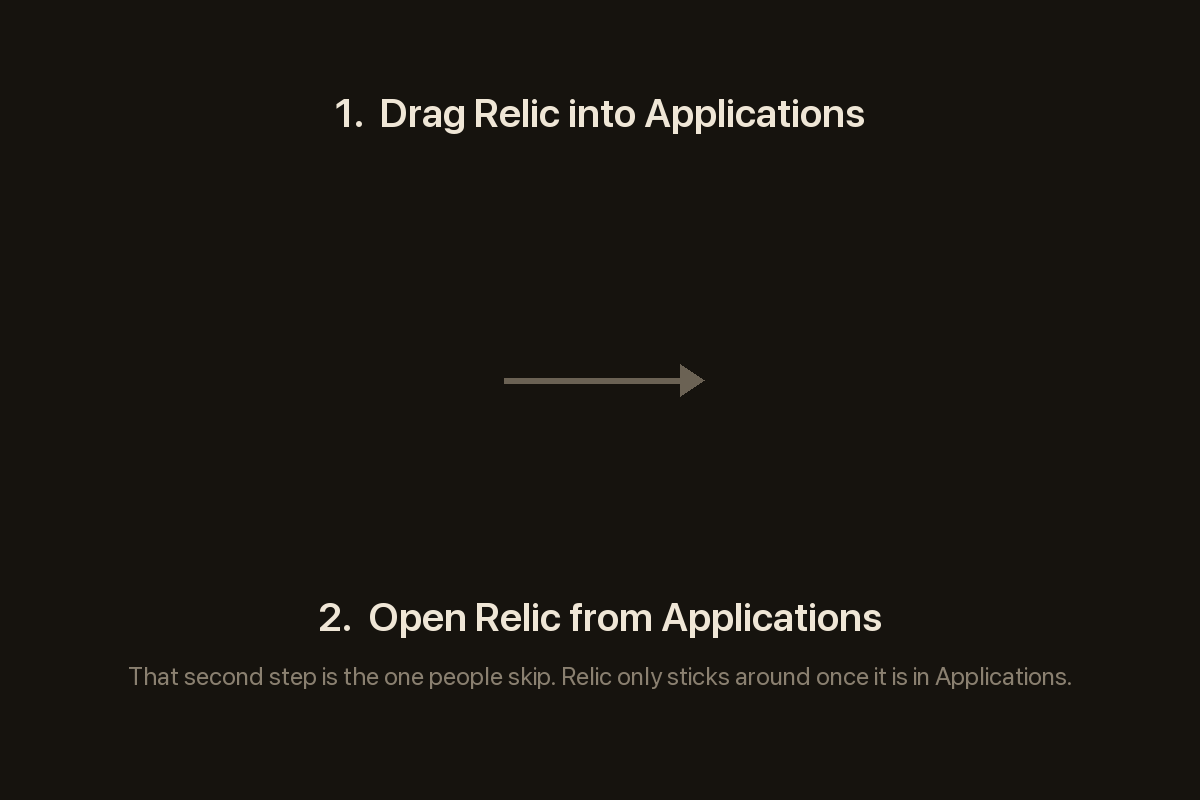
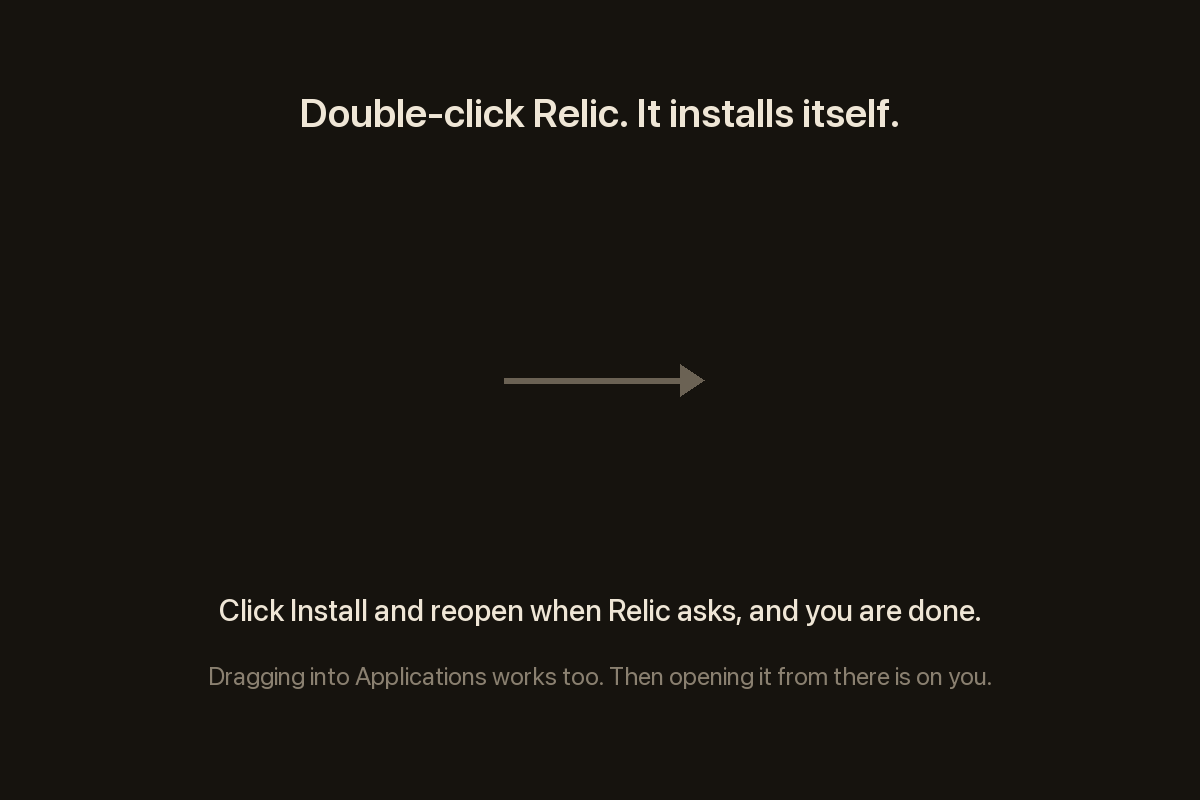
mac: unpin over System Settings, outline the onboarding window, DMG leads with double-click
Three first-run fixes from live QA:

- The always-on-top window sat immovably over the Accessibility switch it
  had just sent the user to flip. The AX step now unpins the window for the
  trip to System Settings (new onPinWindow host callback) and re-pins on
  every way back: grant lands, manual continue, or skip. _show re-asserts
  the pin on every summon, so a missed restore can never stick.

- The onboarding surface filled its frameless window with a flat borderless
  container, and during OAuth it floats over a browser tab styled in the
  same palette. The passphrase screen was indistinguishable from the page
  behind it and read as a website asking for the phrase. It now draws the
  same window-edge border + rounded corners as the popup.

- The DMG artwork told users to drag, which is a bare Finder copy that
  launches nothing, and QA showed users waiting on an app that never opens
  itself. The artwork now leads with double-click (which runs the app and
  ends in "Install and reopen"), with drag as the footnote. The generator
  script is checked in this time (app/scripts/gen_dmg_background.py).

Claude-Session: https://claude.ai/code/session_014i6p25y2rh2XQwhVrcDGb1

Changed region(s): [[0.1233, 0.75, 0.8942, 0.875], [0.2467, 0.125, 0.74, 0.1875]]

diff --git a/app/lib/onboarding/desktop_onboarding.dart b/app/lib/onboarding/desktop_onboarding.dart
@@ -57,6 +57,12 @@ class DesktopOnboarding extends StatefulWidget {
   /// ([away] false). No-op when null.
   final Future<void> Function(bool away)? onBrowserHandoff;
 
+  /// Desktop only: pin/unpin the host window's always-on-top level. The
+  /// Accessibility step unpins while the user is over in System Settings —
+  /// pinned, our window sits immovably on top of the very switch we sent them
+  /// to flip — and pins again when the flow comes back forward. No-op when null.
+  final Future<void> Function(bool pinned)? onPinWindow;
+
   const DesktopOnboarding({
     super.key,
     required this.onSignInPassphrase,
@@ -69,6 +75,7 @@ class DesktopOnboarding extends StatefulWidget {
     required this.onTryDemo,
     this.startAtSignIn = false,
     this.onBrowserHandoff,
+    this.onPinWindow,
   });
 
   @override
@@ -234,7 +241,13 @@ class _DesktopOnboardingState extends State<DesktopOnboarding> {
   Future<void> _openAccessibility() async {
     setState(() => _busy = true);
     final trusted = await inputInjectionAvailable(prompt: true);
-    if (!trusted) await openInputPermissionSettings();
+    if (!trusted) {
+      // Come off the always-on-top level before System Settings opens: pinned,
+      // this window sits on top of the very Accessibility switch we are about
+      // to send the user to flip. Every path back re-pins.
+      await widget.onPinWindow?.call(false);
+      await openInputPermissionSettings();
+    }
     if (!mounted) return;
     setState(() {
       _busy = false;
@@ -252,6 +265,7 @@ class _DesktopOnboardingState extends State<DesktopOnboarding> {
   /// the flow continues where nobody can see it.
   Future<void> _onAccessibilityGranted() async {
     if (!mounted) return;
+    await widget.onPinWindow?.call(true);
     await activateApp();
     if (!mounted) return;
     _go(_Step.welcome);
@@ -593,7 +607,17 @@ class _DesktopOnboardingState extends State<DesktopOnboarding> {
     return Theme(
       data: materialThemeFor(c),
       child: Container(
-        color: c.base,
+        // Same window-edge treatment as the popup (border + rounded corners).
+        // This surface fills a frameless window that floats over the browser
+        // during OAuth — and the sign-in tab is styled in Relic's own palette,
+        // so without an edge the passphrase screen is indistinguishable from
+        // the page behind it and reads as a *website* asking for the phrase.
+        decoration: BoxDecoration(
+          color: c.base,
+          borderRadius: BorderRadius.circular(Radii.popup),
+          border: Border.all(color: c.borderStrong, width: 1),
+        ),
+        clipBehavior: Clip.antiAlias,
         alignment: Alignment.center,
         child: ConstrainedBox(
           constraints: const BoxConstraints(maxWidth: 380),
@@ -643,6 +667,8 @@ class _DesktopOnboardingState extends State<DesktopOnboarding> {
                   ? null
                   : () {
                       _axWatcher.cancel(); // the user got there first
+                      // Idempotent when the trip out never happened (Skip).
+                      unawaited(widget.onPinWindow?.call(true));
                       _go(_Step.welcome);
                     }),
         ]);

diff --git a/app/lib/desktop.dart b/app/lib/desktop.dart
@@ -1540,6 +1540,11 @@ class _RealAppState extends State<RealApp>
       return DesktopOnboarding(
         startAtSignIn: _onboardStartAtSignIn,
         onBrowserHandoff: _oauthBrowserHandoff,
+        // The Accessibility step drops the pin while the user is in System
+        // Settings (else we cover the switch), and restores it on the way back.
+        // _show also re-asserts the pin on every summon, so a missed restore
+        // can never make the pin loss permanent.
+        onPinWindow: (pinned) => windowManager.setAlwaysOnTop(pinned),
         onCancel: () {
           setState(() {
             _connecting = false;

diff --git a/app/scripts/gen_dmg_background.py b/app/scripts/gen_dmg_background.py
@@ -1,0 +1,75 @@
+#!/usr/bin/env python3
+"""Generator for app/macos/dmg-background.png (the PNG is checked in).
+
+600x400 points at @2x = 1200x800 px, saved at 144 dpi so Finder draws it at
+600x400 points inside the DMG window create-dmg opens at that size. Icons sit
+at (150,190) and (450,190), 100pt, per build_release_macos.sh.
+
+Needs Pillow and the macOS system font: python3 -m pip install Pillow, run on
+a Mac. Re-run after editing, eyeball the PNG, commit both files.
+
+The copy leads with double-click, not drag: a double-clicked Relic runs from
+the read-only image, offers "Install and reopen" (install_offer.dart), and
+ends with the app open in Applications. A drag is a bare Finder copy that
+launches nothing, and first-run QA showed users wait on an app that will
+never open itself.
+"""
+from pathlib import Path
+
+from PIL import Image, ImageDraw, ImageFont
+
+OUT = Path(__file__).resolve().parent.parent / "macos" / "dmg-background.png"
+
+S = 2  # @2x
+W, H = 600 * S, 400 * S
+
+BG = (0x16, 0x13, 0x0E)
+TEXT = (0xEF, 0xE6, 0xD6)
+MUTED = (0x8A, 0x80, 0x70)
+ARROW = (0x6B, 0x62, 0x54)
+
+SF = "/System/Library/Fonts/SFNS.ttf"
+
+
+def font(size, weight=400):
+    f = ImageFont.truetype(SF, int(size * S))
+    # SFNS.ttf axes: Width, Optical Size, GRAD, Weight.
+    f.set_variation_by_axes([100, min(96, max(17, size * S)), 400, weight])
+    return f
+
+
+img = Image.new("RGB", (W, H), BG)
+d = ImageDraw.Draw(img)
+
+
+def center(text, y, f, fill):
+    w = d.textbbox((0, 0), text, font=f)[2]
+    d.text(((W - w) / 2, y * S), text, font=f, fill=fill)
+
+
+# Headline above the icon row (icons sit at y=190pt, 100pt tall).
+center("Double-click Relic. It installs itself.", 44, font(20, 600), TEXT)
+
+# Arrow across the gap between the two icons (x 250..350pt).
+y = 190 * S
+d.line([(252 * S, y), (346 * S, y)], fill=ARROW, width=3 * S)
+d.polygon(
+    [(352 * S, y), (340 * S, y - 8 * S), (340 * S, y + 8 * S)], fill=ARROW
+)
+
+# Below the icon row, clear of the icon labels (~y=255pt).
+center(
+    "Click Install and reopen when Relic asks, and you are done.",
+    296,
+    font(15, 500),
+    TEXT,
+)
+center(
+    "Dragging into Applications works too. Then opening it from there is on you.",
+    330,
+    font(12.5, 400),
+    MUTED,
+)
+
+img.save(OUT, dpi=(72 * S, 72 * S))
+print("wrote", OUT, img.size)
